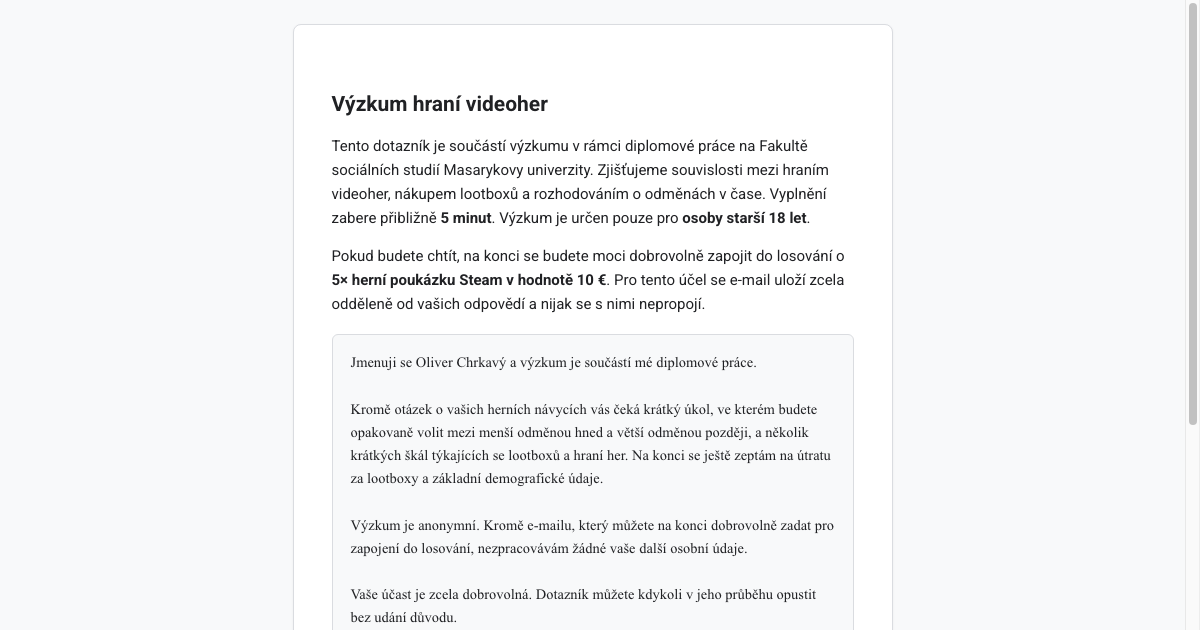
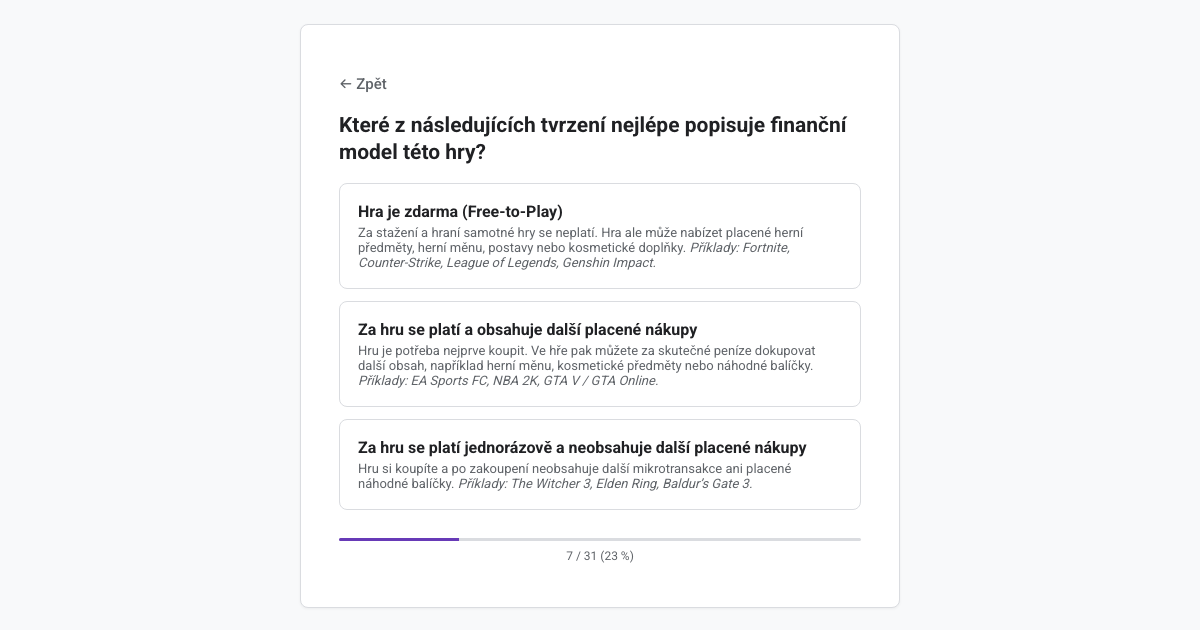
Use monetization-question screenshot for link preview, match title to intro
Swaps the OG/Twitter preview image from the text-heavy consent screen
to the game-monetization question screen, which names specific popular
games (Fortnite, CS:GO, LoL, GTA, The Witcher 3...) right in the
options — more attention-grabbing in a feed while still being an
authentic, unmodified screenshot of the actual survey. Title/og:title/
twitter:title changed to match T.introTitle exactly ("Výzkum hraní
videoher") instead of a separately-worded variant.

diff --git a/index.html b/index.html
@@ -3,15 +3,15 @@
 <head>
 <meta charset="UTF-8">
 <meta name="viewport" content="width=device-width, initial-scale=1.0">
-<title>Výzkum hráčů videoher a lootboxů</title>
-<meta property="og:title" content="Výzkum hráčů videoher a lootboxů">
+<title>Výzkum hraní videoher</title>
+<meta property="og:title" content="Výzkum hraní videoher">
 <meta property="og:description" content="Dotazník v rámci diplomové práce na Masarykově univerzitě o hraní videoher, lootboxech a rozhodování o odměnách.">
 <meta property="og:type" content="website">
 <meta property="og:image" content="https://lootbox-survey.vercel.app/og-preview.png">
 <meta property="og:image:width" content="1200">
 <meta property="og:image:height" content="630">
 <meta name="twitter:card" content="summary_large_image">
-<meta name="twitter:title" content="Výzkum hráčů videoher a lootboxů">
+<meta name="twitter:title" content="Výzkum hraní videoher">
 <meta name="twitter:description" content="Dotazník v rámci diplomové práce na Masarykově univerzitě o hraní videoher, lootboxech a rozhodování o odměnách.">
 <meta name="twitter:image" content="https://lootbox-survey.vercel.app/og-preview.png">
 <link rel="preconnect" href="https://fonts.googleapis.com">
